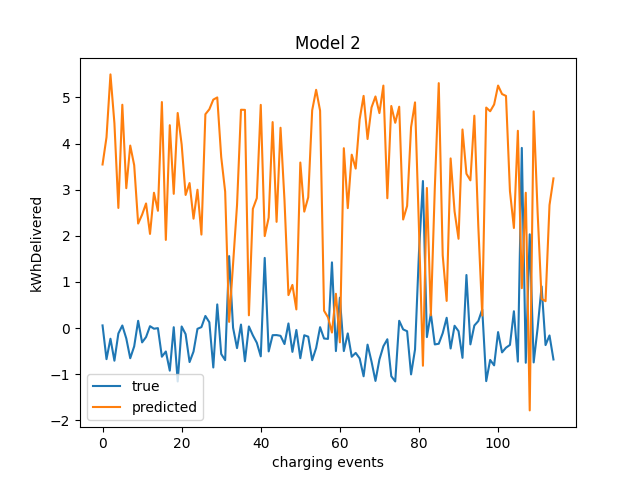
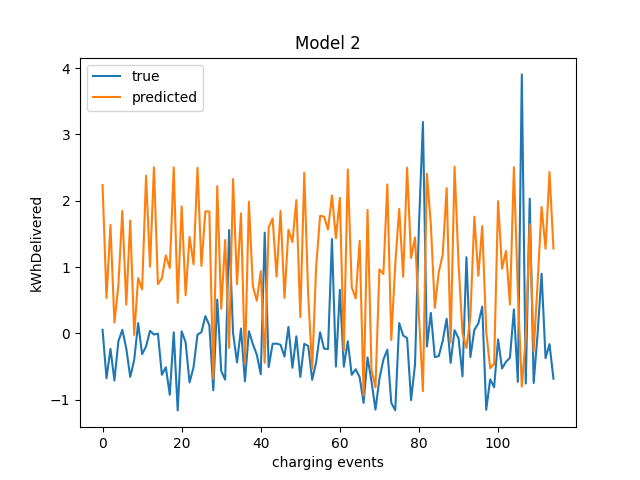
shared

diff --git a/src/client.py b/src/client.py
@@ -103,7 +103,7 @@ training_df_y = training_df.pop('kWhDelivered')
 
 def train(x_train, y_train):
   model = keras.Sequential()
-  model.add(keras.layers.LSTM(100, activation='tanh', input_shape=(2, 1)))
+  model.add(keras.layers.LSTM(50, activation='tanh', input_shape=(2, 1)))
   model.add(keras.layers.RepeatVector(1))
   # model.add(keras.layers.LSTM(100, activation='tanh', input_shape=(2, 1)))
   # model.add(keras.layers.RepeatVector(1))
@@ -113,7 +113,7 @@ def train(x_train, y_train):
   # model.add(keras.layers.RepeatVector(1))
   model.add(keras.layers.TimeDistributed(keras.layers.Dense(1, activation='linear')))
   model.compile(optimizer='adam', loss='mean_squared_error', metrics=[keras.metrics.MeanSquaredError()])
-  history = model.fit(x_train, y_train, epochs=5000, validation_split=0.2, shuffle=False)
+  history = model.fit(x_train, y_train, epochs=3000, validation_split=0.2, shuffle=False)
 
   return model, history
 
@@ -128,6 +128,7 @@ def evaluate(model, data):
   plt.ylabel('kWhDelivered')
   plt.plot(normalized_df_clean['kWhDelivered'], label='true')
   plt.plot(yhat, label='predicted')
+  plt.xticks(np.arange(min(normalized_df_clean['kWhDelivered'][0]), max(normalized_df_clean['kWhDelivered'][0])+1, 2.0))
   plt.legend()
   plt.show()
 
@@ -191,12 +192,12 @@ def round_based_learning(rounds=3):
     plt.plot(test_df['kWhDelivered'], label='true')
     plt.plot(yhat, label='predicted')
     plt.legend()
-    plt.savefig(f'figures\\model_{i}.png')
+    plt.savefig(f'figures/model_{i}.png')
     plt.clf()
     i += 1
 
 
-round_based_learning(10)
+round_based_learning(2)
 
 
 # IMPLEMENT THISSSSSSSSSS
